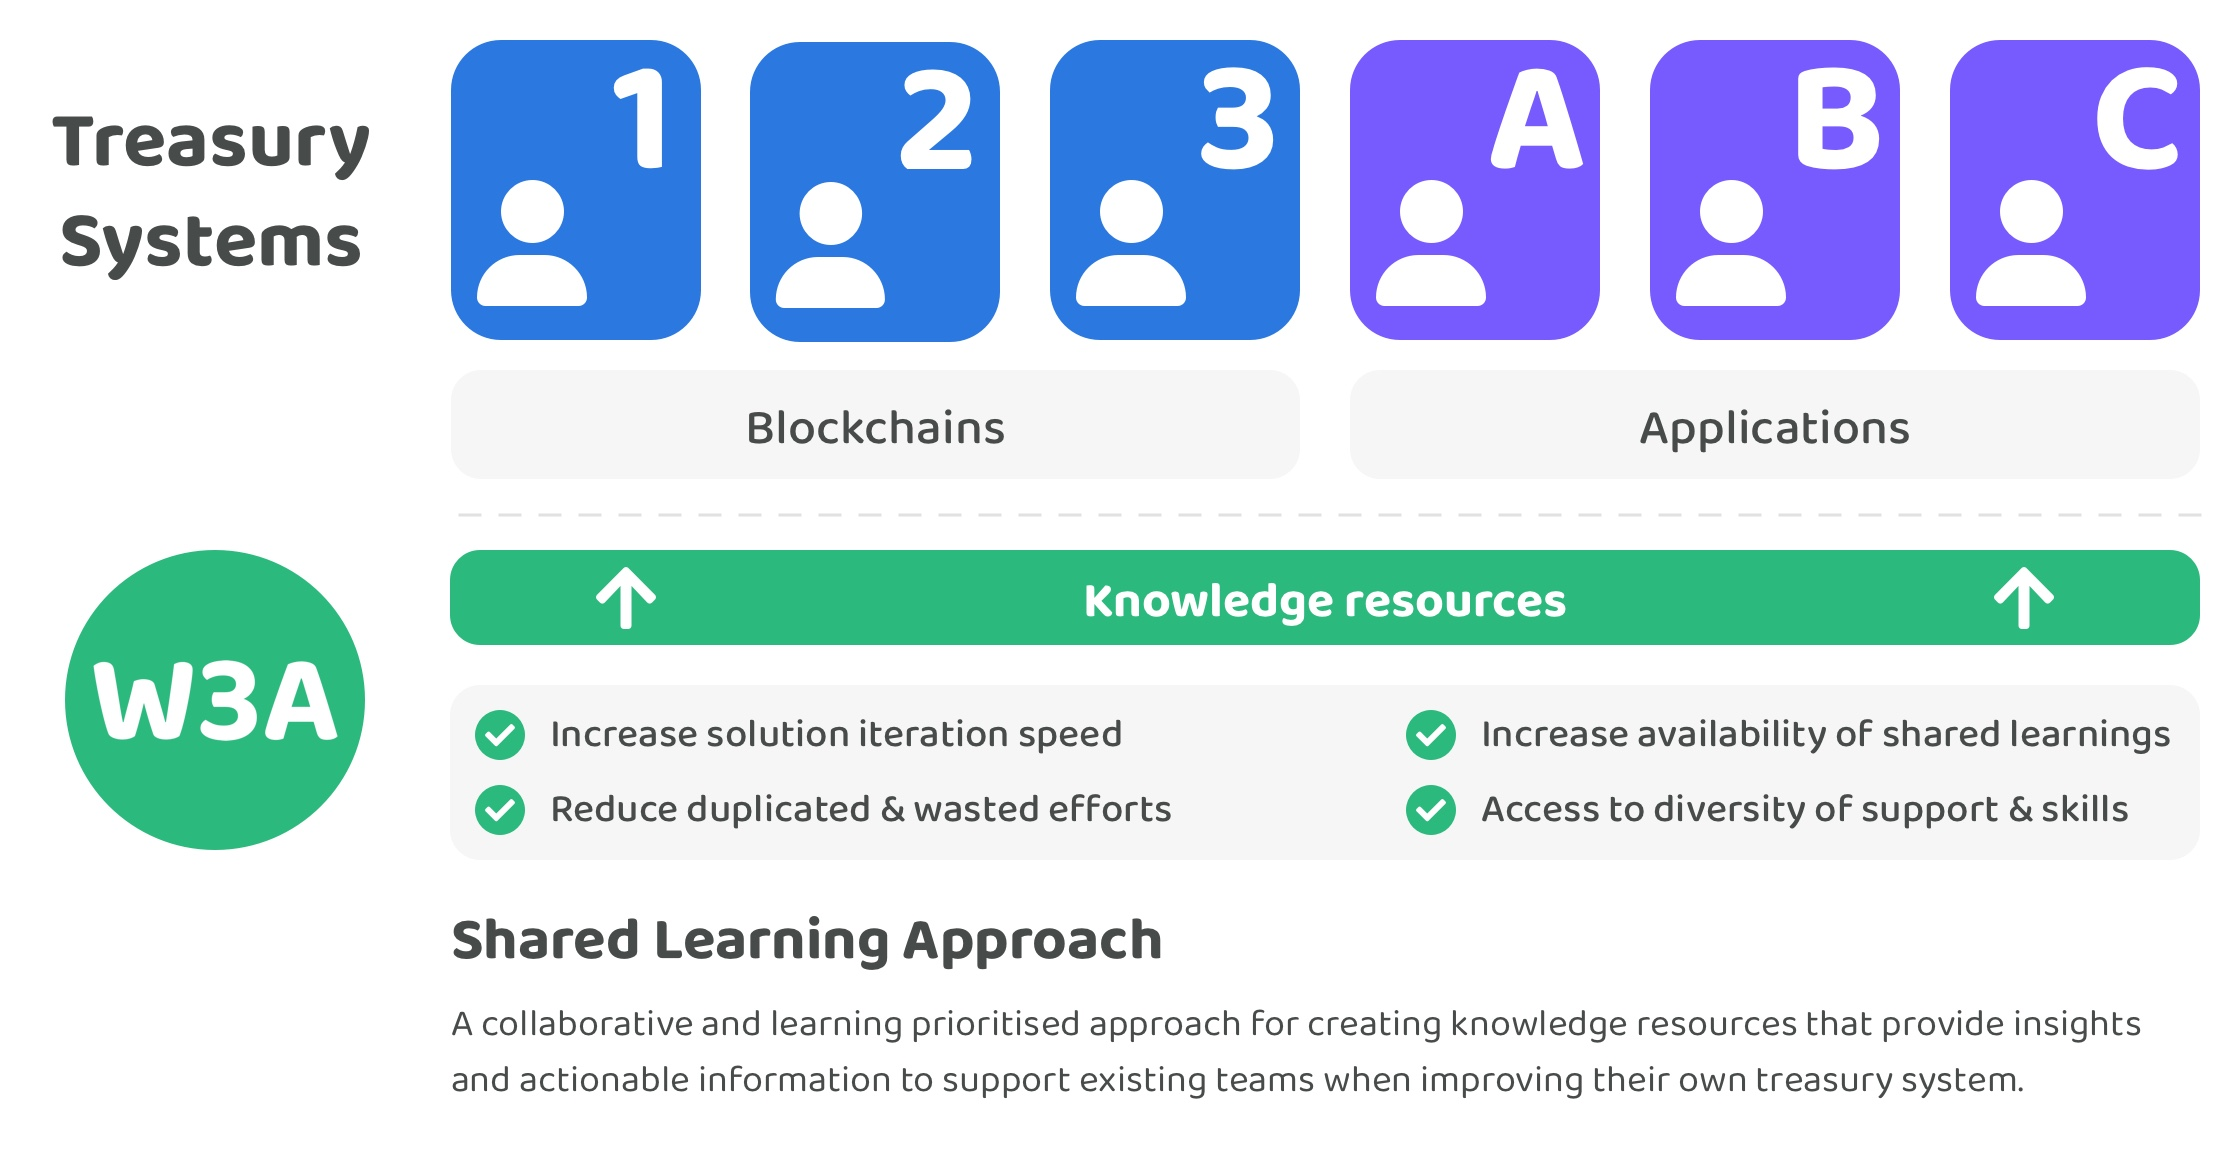
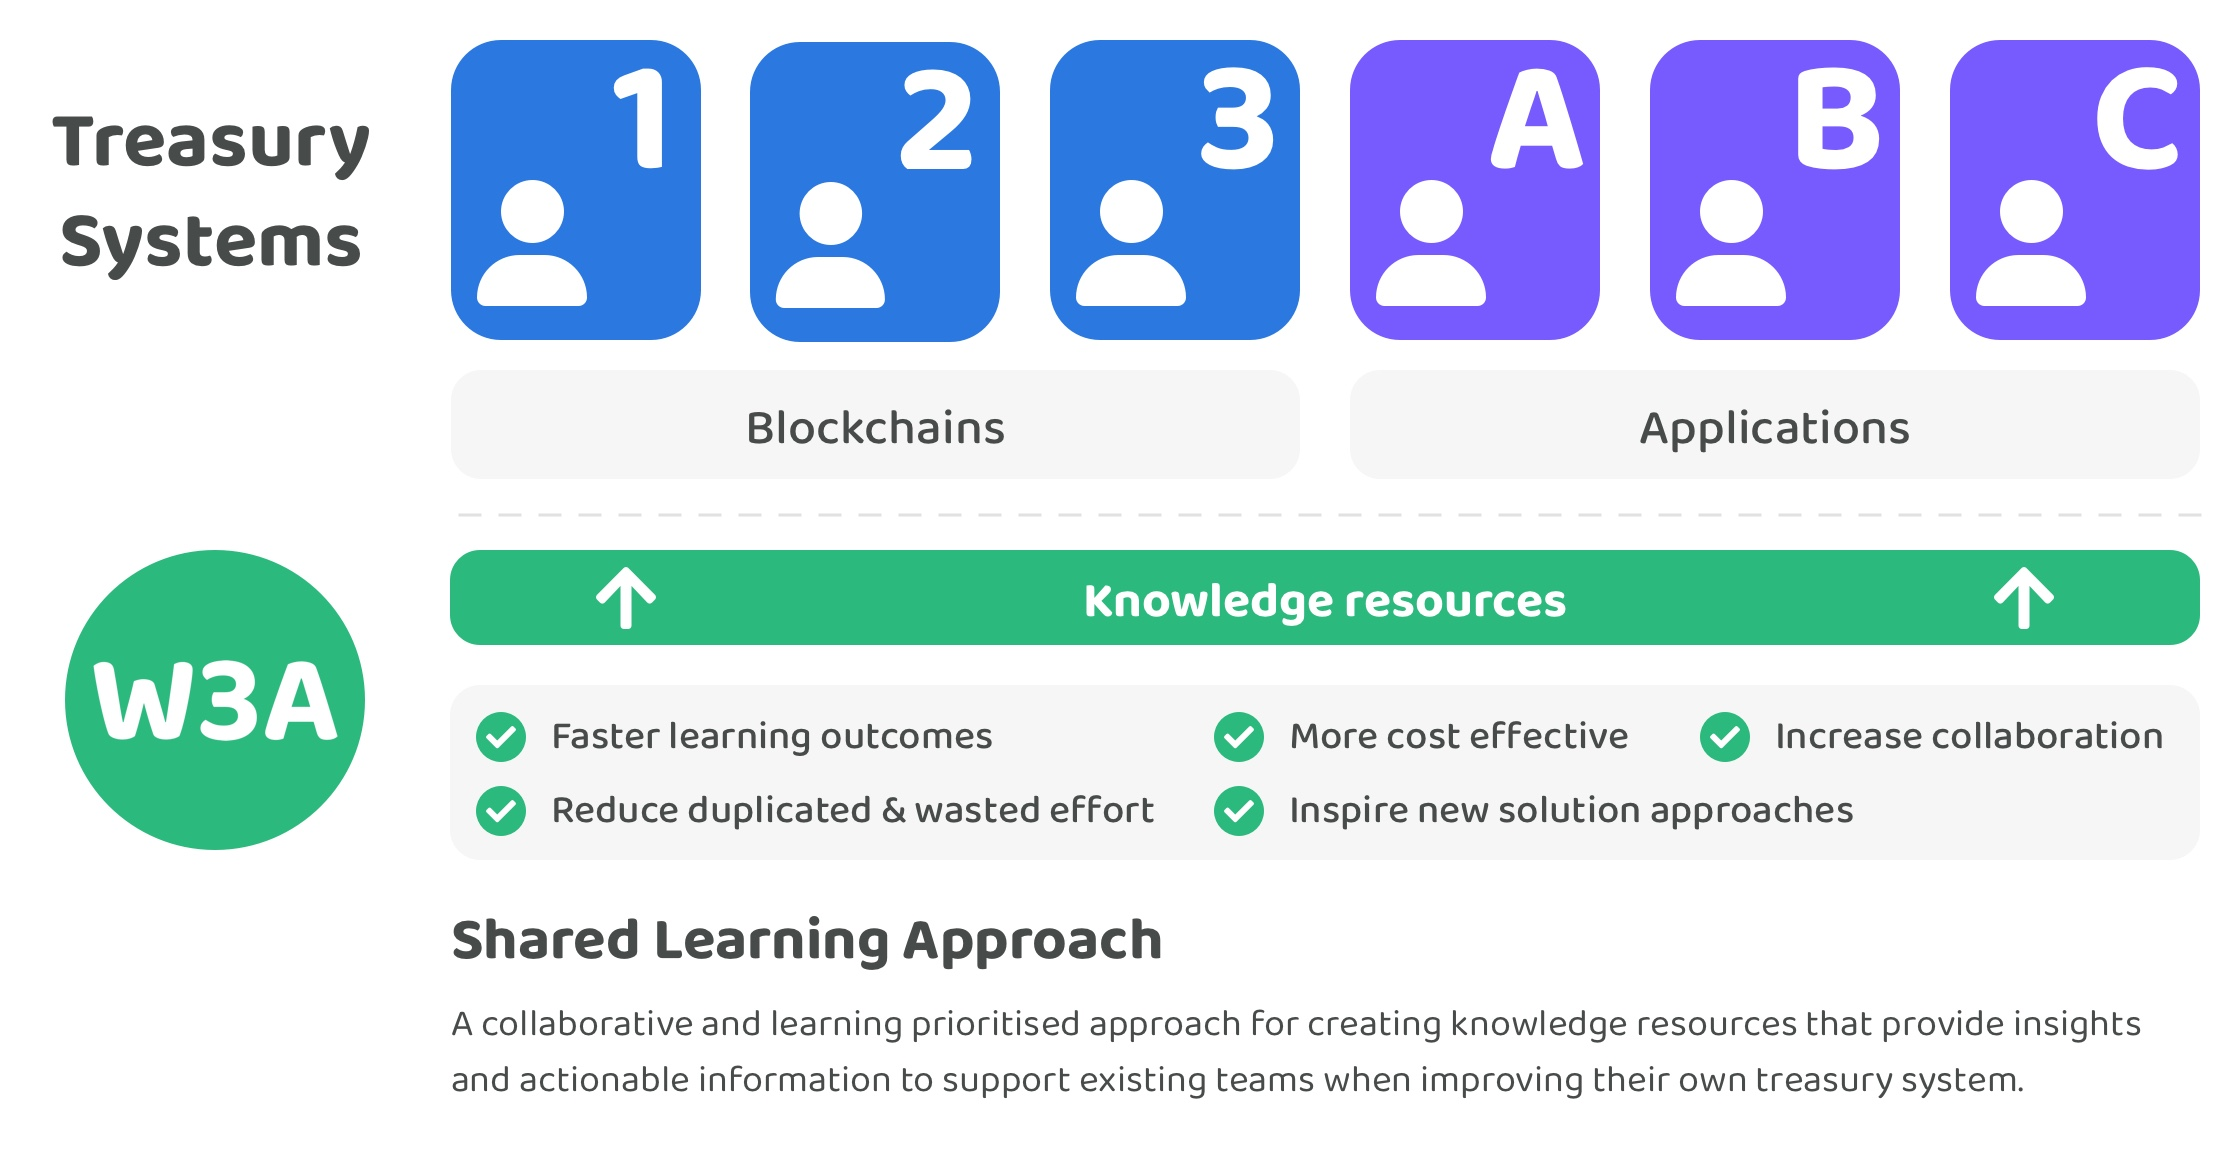
GITBOOK-71: change request with no subject merged in GitBook

Changed region(s): [[0.2166, 0.6087, 0.9592, 0.7304], [0.2166, 0.6087, 0.4951, 0.6696]]

diff --git a/approach/shared-learning-approach.md b/approach/shared-learning-approach.md
@@ -56,18 +56,17 @@ A shared learning approach offers a supportive structure for helping existing te
 
 **Advantages**
 
-* Quicker learning outcomes - Focussing on specific problem areas and bringing together research, analysis and case studies to create knowledge resources can help increase the speed in which key learnings are identified and shared across different ecosystems. Searching for feedback and suggestions for iteration of this knowledge resource can further help further tighten the iterative learning loop by integrating further insights and data to improve any currently established learnings. The faster these learning outcomes can be achieved and shared the higher the opportunity there is for solutions teams to iterate faster in adopting effective solutions. It can also help make it easier to identify where common solutions are emerging which could then be turned into open source reference implementations and even potentially standardised.
-* Case studies of different solution approaches - Ongoing research towards what is happening across different treasury systems across the industry will help with identifying new and novel approaches to solving different problems. Keeping a log of these solutions and how they perform over time will create a useful reference resource for existing teams to better determine what has been effective and how they can consider and integrate those learnings into their own treasury systems improvement.
-* Shared learnings & knowledge - Learnings that help highlight what effective solutions exist for solving certain problem areas can be shared across any of the teams building solutions across different blockchains, protocols and applications. Contributors focussed on improving the available learnings and knowledge have a direct incentive to collaborate with any existing projects and help aggregate any existing learnings and resources into a comprehensive knowledge resource to better help existing teams. The more that quality learnings, knowledge and resources can be shared across the wider web 3 ecosystems the quicker that each project teams will be able to learn and iterate on their own solutions as well as avoid any common pitfalls.
-* Higher skill diversity - Existing project teams can benefit from a group of contributors that are incentivised to collaborate with existing projects as it gives them access to a more diverse range of skill sets and opinions that those teams may benefit from. Contributors focussed on increasing the amount of shared learnings, knowledge and resources available are able to provide their expertise and skills to any of the teams building solutions and potentially help fill in gaps of knowledge or expertise.
-* Highly collaborative - Contributors focussed on a shared learning approach would not be competing with existing teams building solutions. Contributors would be directly incentivised to collaborate and share learnings, skills and knowledge with any projects working on treasury systems. Time can be allocated to provide support and useful information to these projects whenever it is highly beneficial for those teams. Projects implementing solutions benefit from being able to utilise any of the learnings and resources in anyway beneficial to their own efforts. Resources could save existing projects meaningful time and effort from doing everything themselves. Those teams would also have contributors that can support any of their own research and analysis efforts and do so in a collaborative manner as this outcome is beneficial both for that team and the wider industry. Feedback from projects building solutions will also help with guiding future efforts into identifying where further research and analysis could be conducted to create the most impactful learnings.
-* Reduce wasted and duplicated effort - Contributors that increase the shared knowledge across ecosystems provides an opportunity to prevent existing teams from spending time researching, analysing and developing software that may already exist and that is freely available for them to use. The more this is achieved the more that each existing team can spend time on other important problems and helps tighten the loop of the time required to improve their own solutions. Increasing the efficiency of improving treasury systems creates an impactful return on investment for these ecosystems through supporting a shared learning approach.
+* **Faster learning outcomes** - Bringing together deep research and data about the range of treasury systems across the industry will help with identifying all of the different approaches being taken to solve important treasury problems and which of them are working effectively or not. Case studies will help further bring light to these areas and showcase the different factors involved in these outcomes. These resources focussed on treasury systems can help with increasing the speed in which key learnings are shared between many ecosystems and help teams building solutions to better identify which approaches to avoid, explore further an embrace when improving their own solution.
+* **More cost effective** - Insightful and actionable information about treasury systems is beneficial for many blockchains and applications across web 3 ecosystems. This creates the opportunity for a shared learning approach to be highly cost effective for these ecosystems as the cost of these contributions can be split between each of the participating ecosystems. The full outcome of any resources created would then be available to the entire industry. The more that the costs for these types of contributions can be shared across many ecosystems the more efficient the overall industry becomes. Increasing this efficiency also helps each ecosystem in being able to direct more funding to other impactful initiatives rather than doing similar work in isolation.
+* **Reduce duplicated & wasted effort** - Each existing team in the industry won’t need to spend the same amount of time doing deep research and analysis if they can support an approach that efficiently creates those outcomes for them. Resources that increase the amount of knowledge available about treasury systems will help existing teams building treasury solutions be able to spend time on unsolved problems and avoid common pitfalls and mistakes. Reducing the amount of time teams need to research and analyse different approaches the more we can prevent the waste and duplication of efforts that yield similar outcomes. Quality knowledge resources can help teams identify effective solutions and promising areas to explore more efficiently than if they had to do that work themselves to arrive at these same conclusions.
+* **Inspire new solution approaches** - Resources that cover a wide range of potential ways that a treasury system could be approached can help with inspiring existing teams in finding new and novel ways to approach solving different problems. More experimentation is greatly beneficial to the wider industry as any outcomes can be recorded and shared across different ecosystems when iterating on their own treasury system.
+* **Increase collaboration** - A group of contributors creating knowledge resources for the wider industry about treasury systems would not be competing with existing teams building solutions. The shared learning approach is effective for aligning the incentive towards increasing the amount of collaboration between as many teams as possible to provide the more impact by creating higher quality resources. The higher the participation in this approach of improving the quality and availability of knowledge resources for treasury systems the faster that each team can iterate and improve their own solutions. Increasing the diversity of skills, backgrounds, values and cultures involved in the creation of these knowledge resources can help ensuring the outcomes are more thorough and of high quality. Feedback from many existing teams will also help with provide an effective path to iterate and improve resources and increase their overall impact.
 
 
 
 **Potential issues**
 
-* Collaboration time cost - Existing communities and projects may not have much time to give and receive feedback on different problem areas they are working on. This could make it difficult to create knowledge resources with the same detail of information. Although this could be a an issue it is not a blocker for making quality knowledge resources. Most data about the outcomes of many treasury systems is publicly available meaning it wouldn't prevent any contributors from being able to identify the approaches being used and what relevant insights and data points exist that can help identify effective solution approaches.
+* **Collaboration time cost** - Existing communities and projects may not have much time to give and receive feedback on different problem areas they are working on. This could make it difficult to create knowledge resources with the same detail of information. Although this could be a an issue it is not a blocker for making quality knowledge resources. Most data about the outcomes of many treasury systems is publicly available meaning it wouldn't prevent any contributors from being able to identify the approaches being used and what relevant insights and data points exist that can help identify effective solution approaches.
 
 
 
